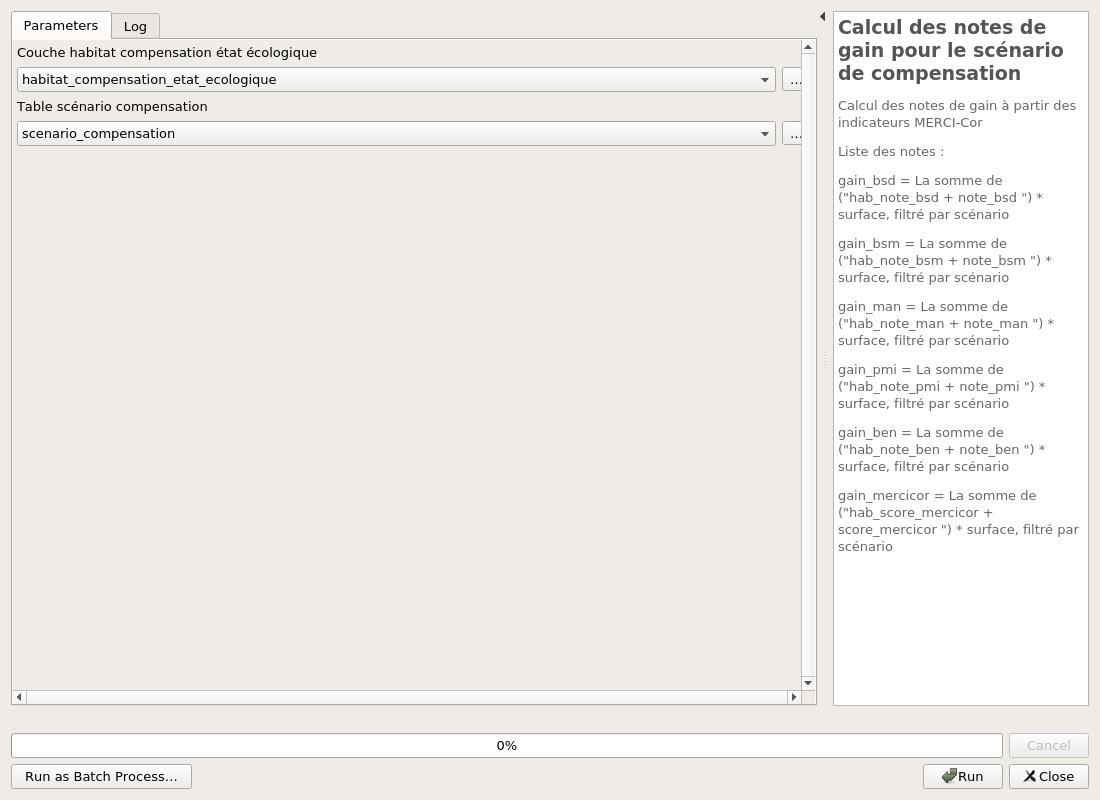
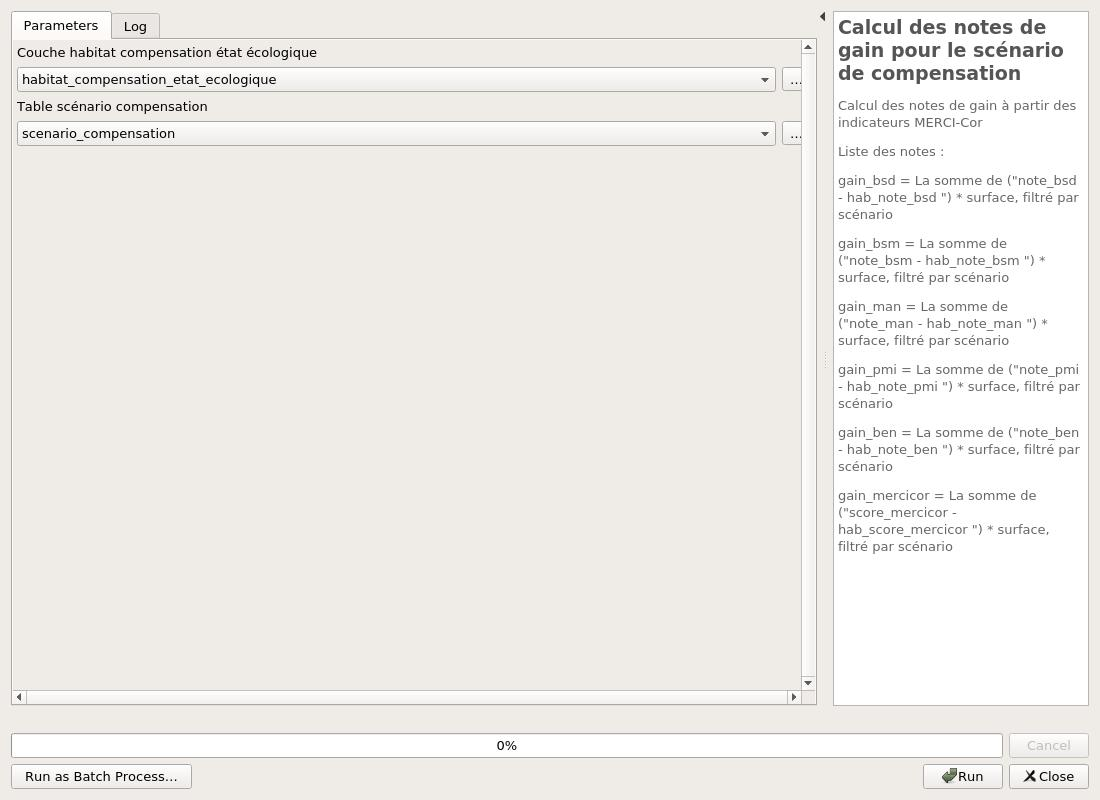
Fix calcul du gain de compensation

diff --git a/mercicor/processing/calcul/calcul_pertes_gains.py b/mercicor/processing/calcul/calcul_pertes_gains.py
@@ -28,10 +28,6 @@ class BaseCalculPertesGains(CalculAlgorithm):
         self.fields['mercicor'] = ['hab_score_mercicor', 'score_mercicor']
 
     @property
-    def multiplier(self) -> int:
-        raise NotImplementedError
-
-    @property
     def project_type(self) -> ProjectType:
         # noinspection PyTypeChecker
         return NotImplementedError
@@ -70,12 +66,11 @@ class BaseCalculPertesGains(CalculAlgorithm):
         for field, formula in self.fields.items():
             message += (
                 '{type_calcul}_{output} = '
-                'La somme de ("{field_1} {operator} {field_2} ") * surface, filtré par scénario\n\n'.format(
+                'La somme de ("{field_1} - {field_2} ") * surface, filtré par scénario\n\n'.format(
                     type_calcul=self.project_type.calcul_type,
                     output=field,
-                    field_1=formula[0],
-                    field_2=formula[1],
-                    operator='-' if self.multiplier == -1 else '+',
+                    field_1=formula[0] if self.project_type == ProjectType.Pression else formula[1],
+                    field_2=formula[1] if self.project_type == ProjectType.Pression else formula[0],
                 )
             )
         return message
@@ -123,10 +118,10 @@ class BaseCalculPertesGains(CalculAlgorithm):
                             "Omission du calcul {} pour l'entité {}".format(field_name, feature.id()))
                         continue
 
-                    sub_result = (
-                            feature[self.fields[note][0]] +
-                            (feature[self.fields[note][1]] * self.multiplier)
-                    )
+                    if self.project_type == ProjectType.Pression:
+                        sub_result = feature[self.fields[note][0]] - feature[self.fields[note][1]]
+                    else:
+                        sub_result = feature[self.fields[note][1]] - feature[self.fields[note][0]]
                     feat[field_name] += sub_result * feature.geometry().area()
 
             scenario_impact.updateFeature(feat)
@@ -144,10 +139,6 @@ class CalculPertes(BaseCalculPertesGains):
     def project_type(self):
         return ProjectType.Pression
 
-    @property
-    def multiplier(self):
-        return -1
-
 
 class CalculGains(BaseCalculPertesGains):
 
@@ -157,7 +148,3 @@ class CalculGains(BaseCalculPertesGains):
     @property
     def project_type(self):
         return ProjectType.Compensation
-
-    @property
-    def multiplier(self):
-        return 1

diff --git a/docs/processing/README.md b/docs/processing/README.md
@@ -14,17 +14,17 @@ Calcul des notes de gain à partir des indicateurs MERCI-Cor
 
 Liste des notes :
 
-gain_bsd = La somme de ("hab_note_bsd + note_bsd ") * surface, filtré par scénario
+gain_bsd = La somme de ("note_bsd - hab_note_bsd ") * surface, filtré par scénario
 
-gain_bsm = La somme de ("hab_note_bsm + note_bsm ") * surface, filtré par scénario
+gain_bsm = La somme de ("note_bsm - hab_note_bsm ") * surface, filtré par scénario
 
-gain_man = La somme de ("hab_note_man + note_man ") * surface, filtré par scénario
+gain_man = La somme de ("note_man - hab_note_man ") * surface, filtré par scénario
 
-gain_pmi = La somme de ("hab_note_pmi + note_pmi ") * surface, filtré par scénario
+gain_pmi = La somme de ("note_pmi - hab_note_pmi ") * surface, filtré par scénario
 
-gain_ben = La somme de ("hab_note_ben + note_ben ") * surface, filtré par scénario
+gain_ben = La somme de ("note_ben - hab_note_ben ") * surface, filtré par scénario
 
-gain_mercicor = La somme de ("hab_score_mercicor + score_mercicor ") * surface, filtré par scénario
+gain_mercicor = La somme de ("score_mercicor - hab_score_mercicor ") * surface, filtré par scénario
 
 
 
